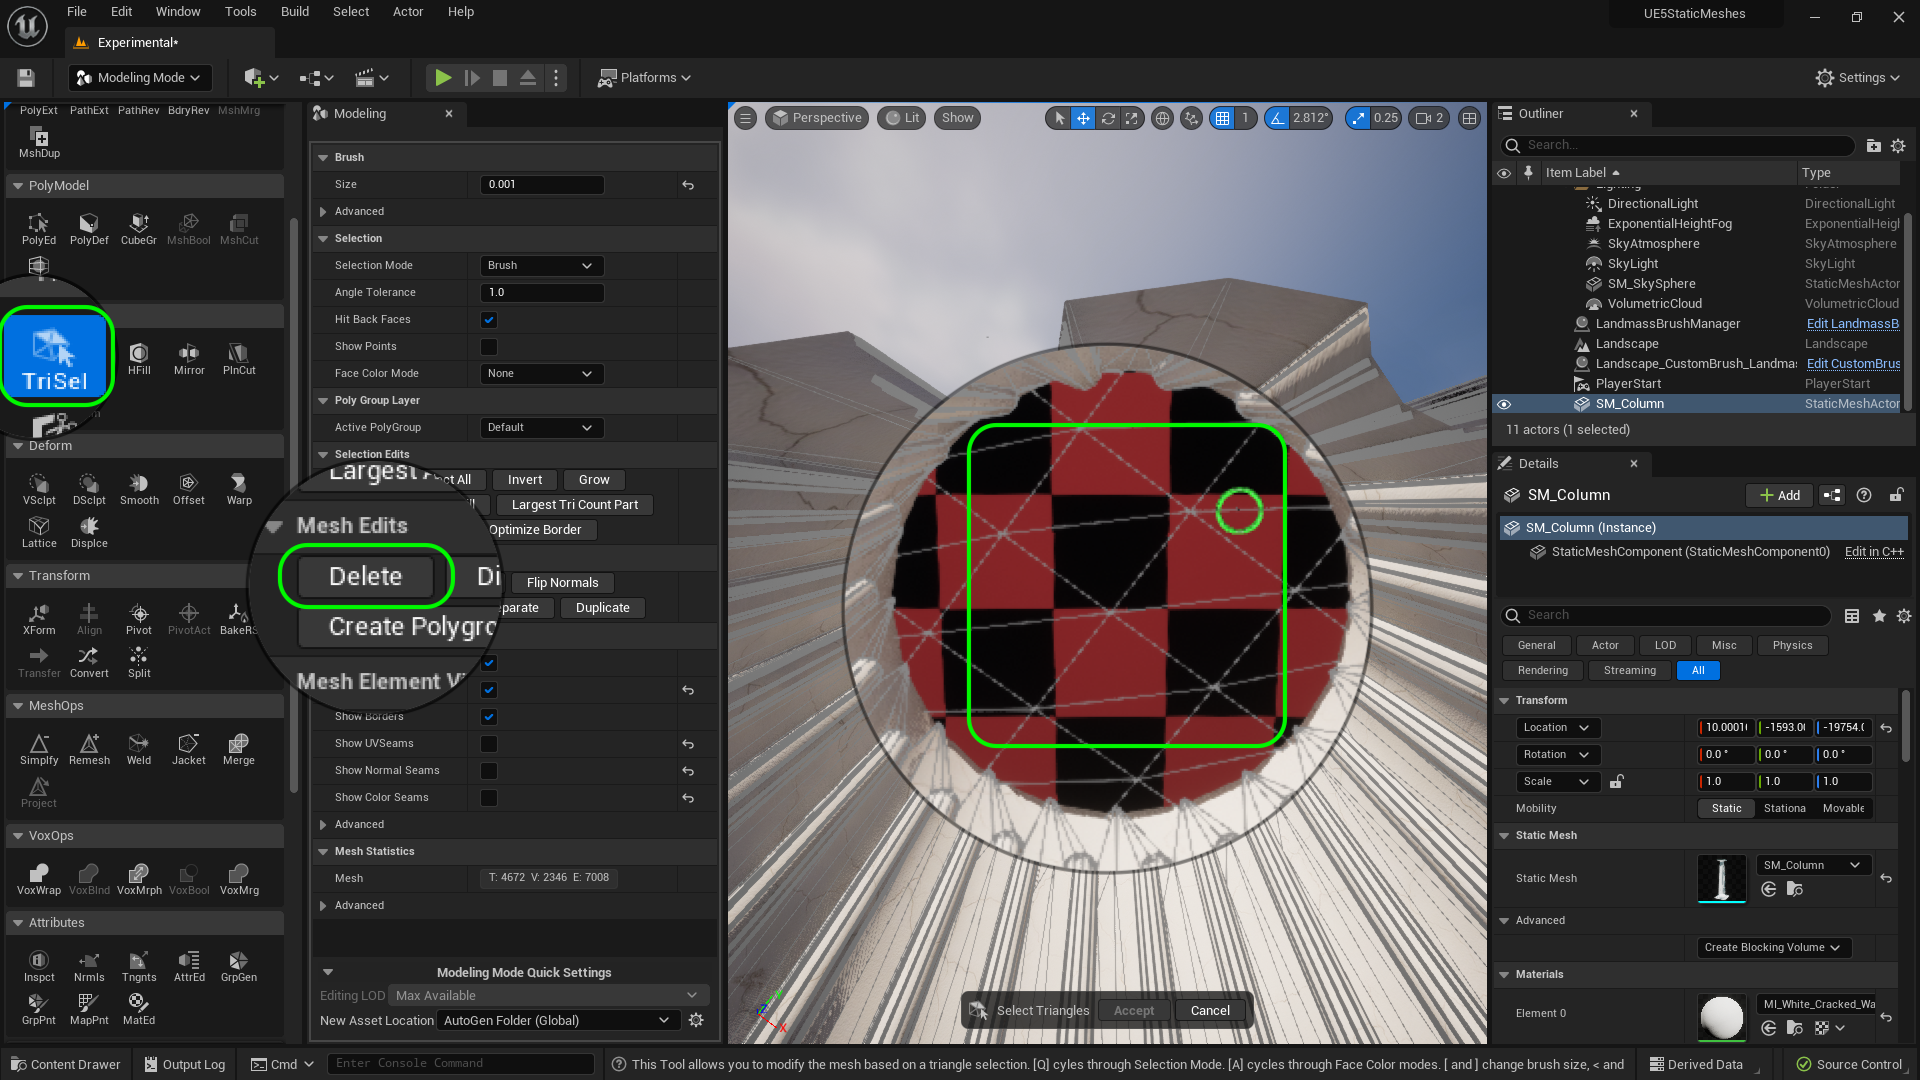
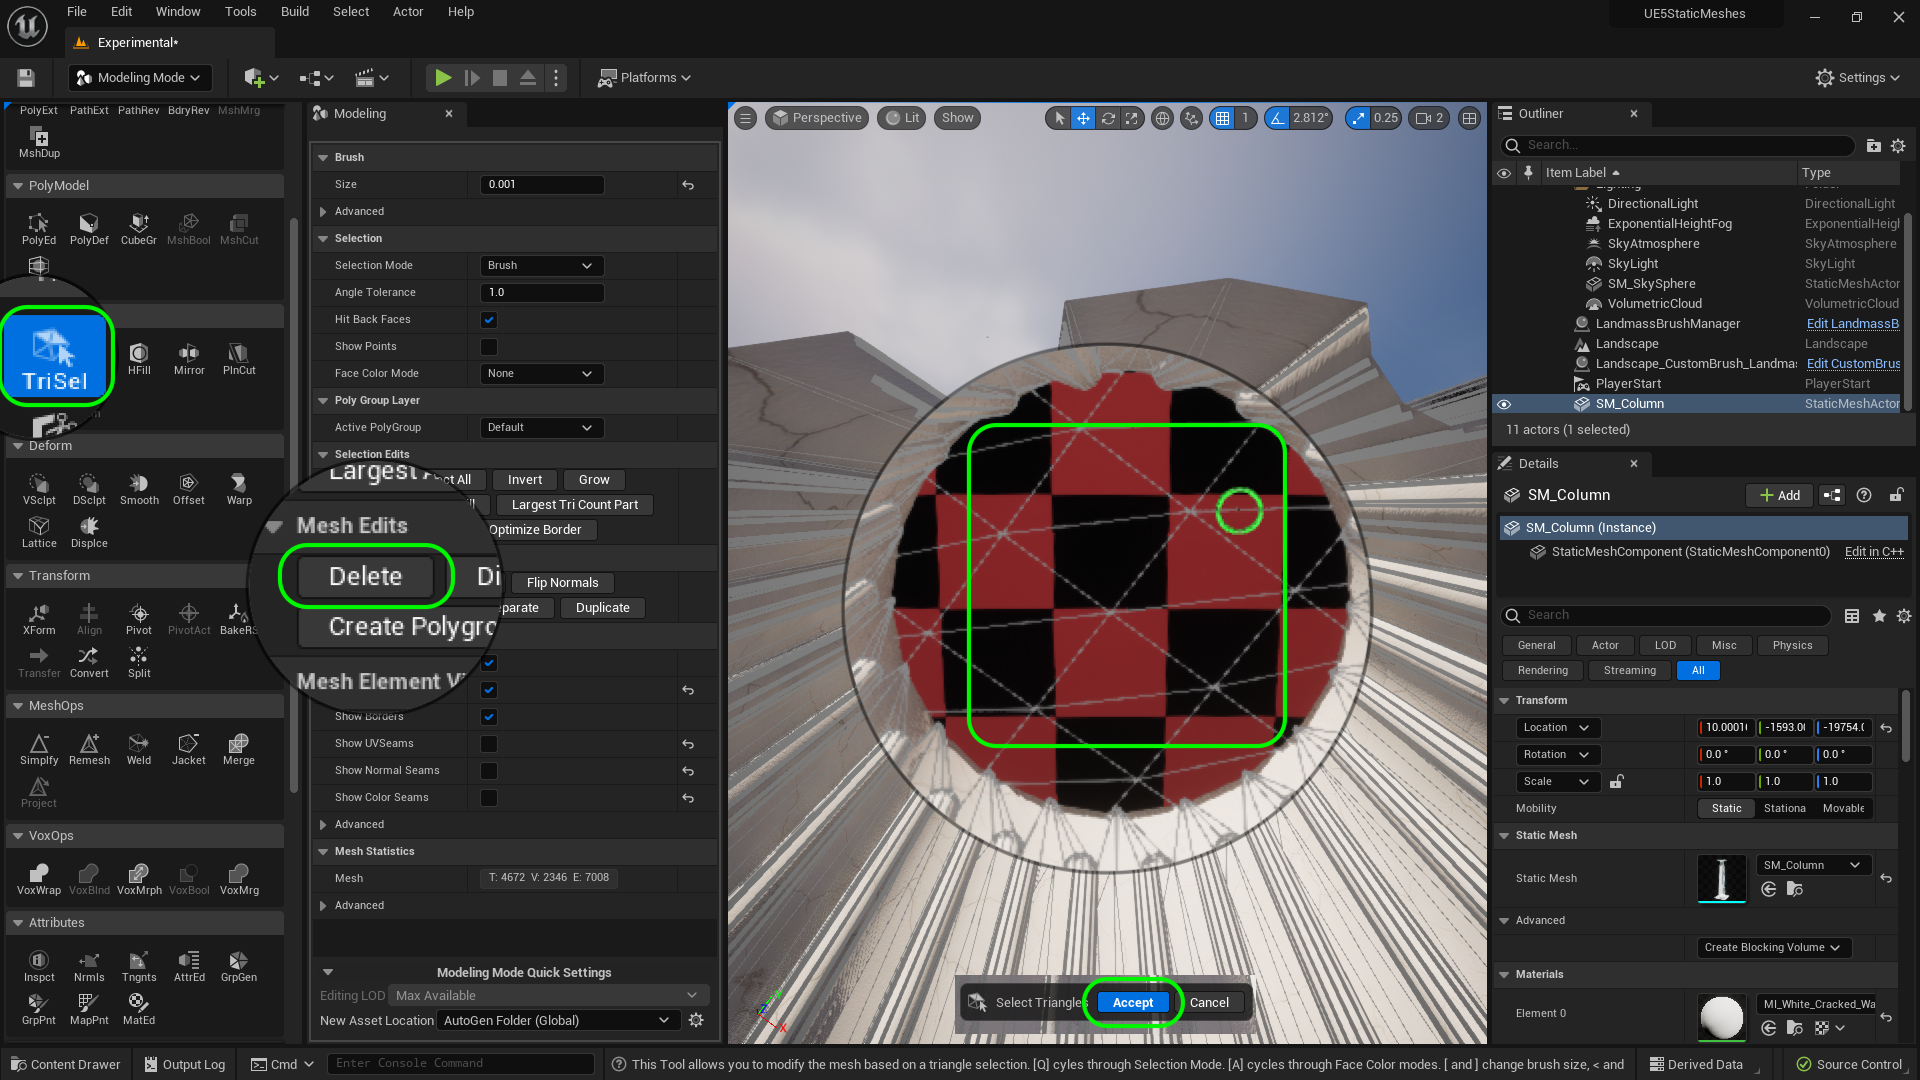
updating sm to ue5

Changed region(s): [[0.5, 0.8861, 0.6562, 0.9778]]

diff --git a/uvs/README.md b/uvs/README.md
@@ -96,38 +96,50 @@ Now we have some extraneous UV's of objects we can't see.  This is the top of th
 
 ##### `Step 11.`\|`ITSM`| :large_blue_diamond: :small_blue_diamond: 
 
-![alt_text](images/deleteTris.png)
+Now select the **Tri Model | TriSel** tool and paint carefully to just choose this one set of planes that was the top of the column when first created.  Press the <kbd>Delete</kbd> button to get rid of it. Then press the <kbd>Accept</kbd> button.
+
+![delete hidden tris](images/deleteTris.png)
 
 ![](../images/line2.png)
 
 
 ##### `Step 12.`\|`ITSM`| :large_blue_diamond: :small_blue_diamond: :small_blue_diamond: 
 
-![alt_text](images/.png)
+That should now cut the faces we no longer need that are hidden.
+
+![hollow column no top](images/CutFface.png)
 
 ![](../images/line2.png)
 
 ##### `Step 13.`\|`ITSM`| :large_blue_diamond: :small_blue_diamond: :small_blue_diamond:  :small_blue_diamond: 
 
-![alt_text](images/.png)
+Go back to the UV Editor Tool and resize the **Texture Resolution** to `2048` to match the medium size we downloaded from **Quixel**.
+
+![change size of texture](images/.png)
 
 ![](../images/line2.png)
 
 ##### `Step 14.`\|`ITSM`| :large_blue_diamond: :small_blue_diamond: :small_blue_diamond: :small_blue_diamond:  :small_blue_diamond: 
 
-![alt_text](images/.png)
+Redo the **Unwrap** with this slightly altered shape.  We should have a bit more UV space for the visible parts of the model.
+
+![redo uv unwrap](images/redoUnwrap.png)
 
 ![](../images/line2.png)
 
 ##### `Step 15.`\|`ITSM`| :large_blue_diamond: :small_orange_diamond: 
 
-![alt_text](images/.png)
+If you imagine unwrapping as cutting away a shape (like along the column) then uncurling it until it is flat.  This is done by having seams in the model.  If you go to the **Seam** editor you can see how it has unwrapped the seams.  You can add seams but I have not been able to delete them in this version of the editor.
+
+![seems for uv in model](images/seams.png)
 
 ![](../images/line2.png)
 
 ##### `Step 16.`\|`ITSM`| :large_blue_diamond: :small_orange_diamond:   :small_blue_diamond: 
 
-![alt_text](images/.png)
+Go into the game and inspect the UVs.  Make sure that the textures have no unsightly seams and that the resolution holds up.  Check out ALL parts of the model.
+
+![inspect UV's on your model](images/uvInspection.png)
 
 ![](../images/line2.png)
 
